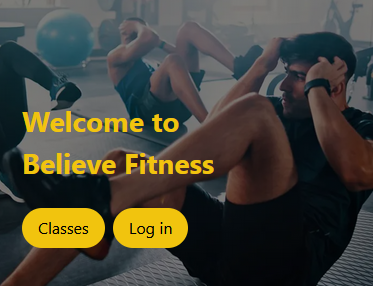
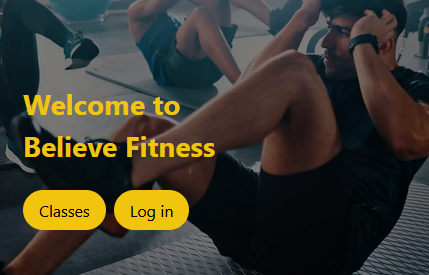
mjatzbox recommendation implemented

diff --git a/src/components/project-card/ProjectCard.tsx b/src/components/project-card/ProjectCard.tsx
@@ -12,12 +12,12 @@ export default function ProjectCard({ project }: Props) {
             className="project-card-link group block rounded-lg border border-gray-700 p-3 hover:border-blue-500 transition"
             aria-label={project.title}
         >
-            <div className="relative mb-2 aspect-video w-full overflow-hidden rounded-md border border-gray-600/60">
+            <div className="relative mb-2 aspect-4/3 w-full overflow-hidden rounded-md border border-gray-600/60">
                 <Image
                     src={project.imageSrc}
                     alt={project.title}
                     fill
-                    className="object-cover transition-transform duration-300 group-hover:scale-[1.02]"
+                    className="object-cover  transition-transform duration-300 group-hover:scale-[1.02]"
                     quality={100}
                     sizes="(max-width: 768px) 92vw, (max-width: 1200px) 44vw, 360px"
                 />

diff --git a/src/data/projects.ts b/src/data/projects.ts
@@ -38,11 +38,11 @@ export const projects: Project[] = [
     },
     {
         id: "project-4",
-        title: "",
-        description: "",
-        href: "https://github.com/yourname/project-four",
-        tags: [""],
-        imageSrc: "/images/project-placeholder.svg",
+        title: "Portfolio site mobile and desktop layout",
+        description: "A personal portfolio website showcasing projects, skills, and experience with responsive design for both mobile and desktop layouts.",
+        href: "https://phongleduc-portfolio.netlify.app/",
+        tags: ["Next.js", "TypeScript", "Tailwind CSS"],
+        imageSrc: "/images/portfolioImage.png",
         featured: true,
     },
     {
